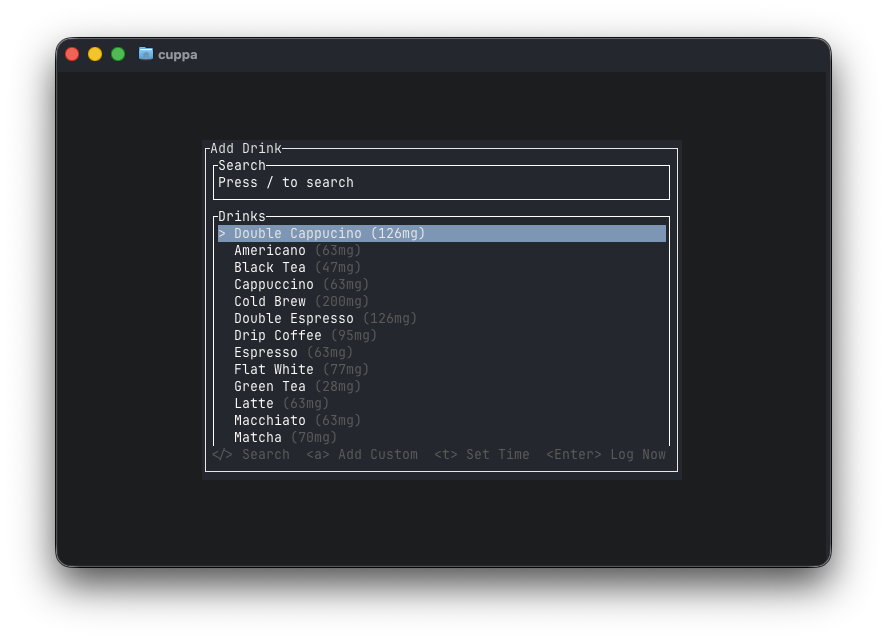
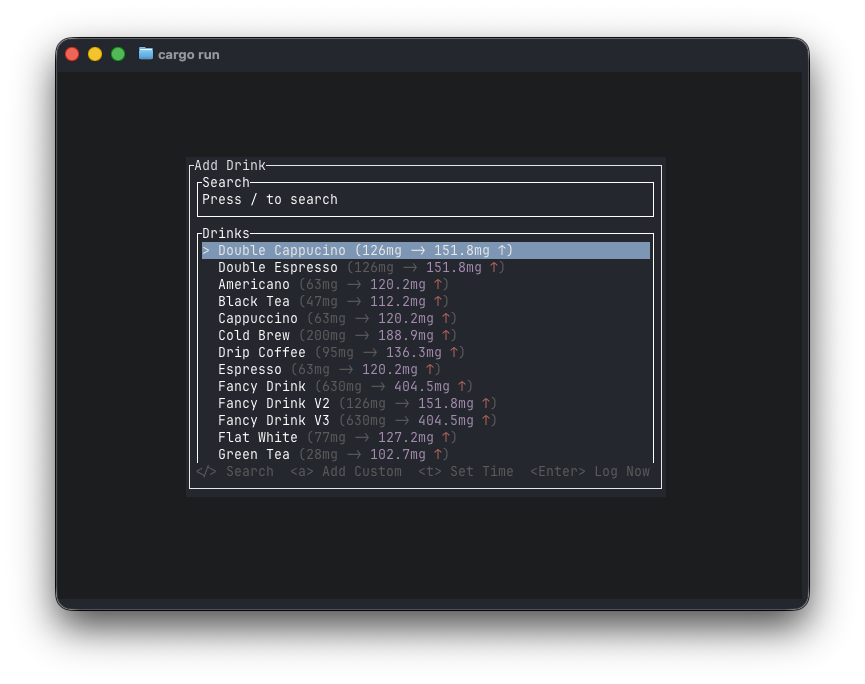
Update README

Changed region(s): [[0.2185, 0.2184, 0.7803, 0.7176], [0.0624, 0.0312, 0.9364, 0.9048]]

diff --git a/README.md b/README.md
@@ -26,7 +26,11 @@
 
 | Custom Drink Types | Settings |
 |-------------------|----------|
-| ![Custom Types](assets/custom_drink_types.png) | ![Settings](assets/settings.png) |
+| ![Custom Types](assets/custom_drink.png) | ![Settings](assets/settings.png) |
+
+| Log | 
+|-------------------|
+| ![Drink Log](assets/log.png) |
 
 ## Installation
 